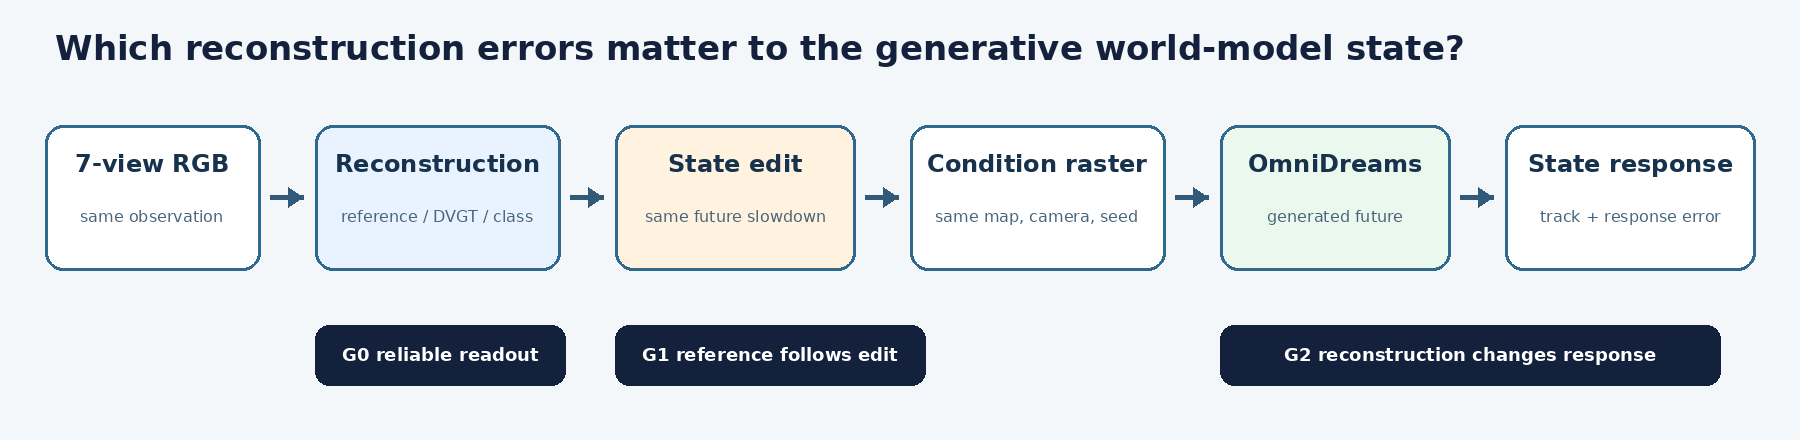
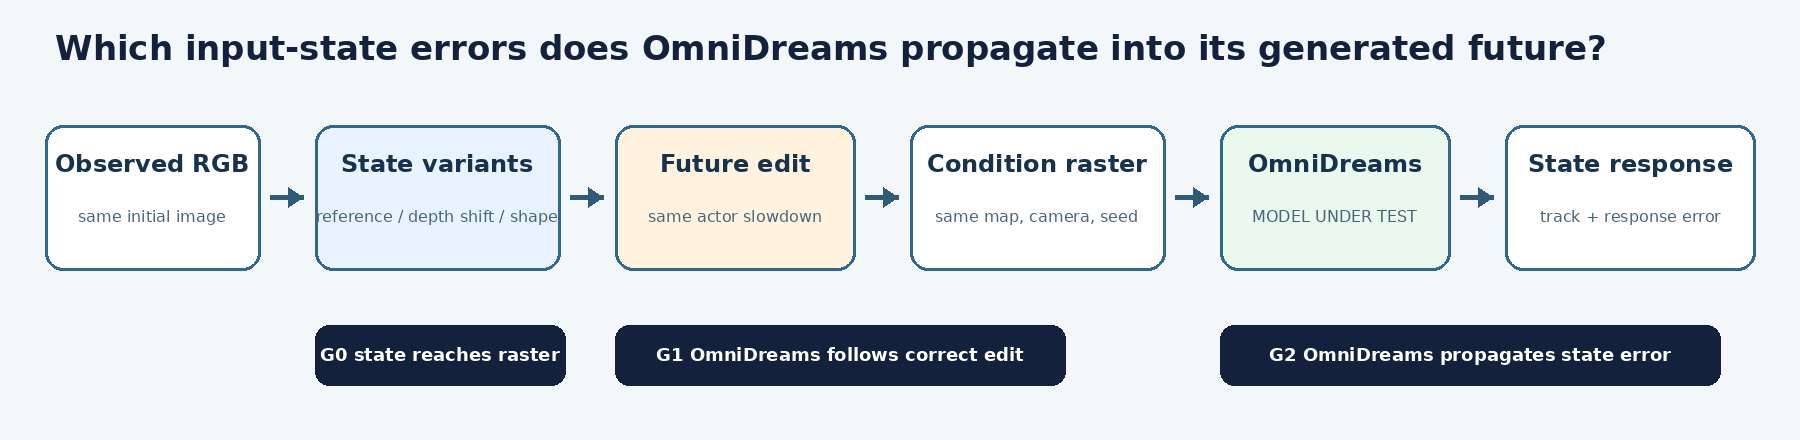
docs(v75): center OmniDreams state sensitivity

diff --git a/scripts/worldsim_v75/build_actor_slowdown_state_figures.py b/scripts/worldsim_v75/build_actor_slowdown_state_figures.py
@@ -19,6 +19,8 @@ SMALL_Q = ROOT/'WS-V75-ACTOR-SLOWDOWN-CONTROL-QUALIFY-01/20260921-r1'
 SMALL_BASE = ROOT/'WS-V75-ACTOR-REMOVAL-CONFIRM-GENERATION-01/20260921-r1'
 ARMS = ['reference', 'dvgt_metric', 'class_prior']
 COLORS = {'reference': '#69d2e7', 'dvgt_metric': '#ff6b6b', 'class_prior': '#ffd166'}
+LABELS = {'reference': 'reference state', 'dvgt_metric': 'depth-shift state',
+          'class_prior': 'depth+shape state'}
 
 
 def font(size, bold=False):
@@ -60,13 +62,13 @@ def initial_panel(array_path, g1_eval, title, subtitle):
 
 def architecture():
     W, H = 1800, 440; im = Image.new('RGB', (W, H), '#f4f7fa'); d = ImageDraw.Draw(im)
-    d.text((55, 28), 'Which reconstruction errors matter to the generative world-model state?', font=font(34, True), fill='#14213d')
+    d.text((55, 28), 'Which input-state errors does OmniDreams propagate into its generated future?', font=font(34, True), fill='#14213d')
     boxes = [
-        (45, 125, 260, 270, '7-view RGB', 'same observation'),
-        (315, 125, 560, 270, 'Reconstruction', 'reference / DVGT / class'),
-        (615, 125, 855, 270, 'State edit', 'same future slowdown'),
+        (45, 125, 260, 270, 'Observed RGB', 'same initial image'),
+        (315, 125, 560, 270, 'State variants', 'reference / depth shift / shape'),
+        (615, 125, 855, 270, 'Future edit', 'same actor slowdown'),
         (910, 125, 1165, 270, 'Condition raster', 'same map, camera, seed'),
-        (1220, 125, 1450, 270, 'OmniDreams', 'generated future'),
+        (1220, 125, 1450, 270, 'OmniDreams', 'MODEL UNDER TEST'),
         (1505, 125, 1755, 270, 'State response', 'track + response error'),
     ]
     for i, (x1, y1, x2, y2, title, sub) in enumerate(boxes):
@@ -77,8 +79,8 @@ def architecture():
         if i < len(boxes)-1:
             d.line((x2+10, 197, boxes[i+1][0]-12, 197), fill='#315a78', width=5)
             d.polygon([(boxes[i+1][0]-12, 197), (boxes[i+1][0]-27, 187), (boxes[i+1][0]-27, 207)], fill='#315a78')
-    gates = [('G0 reliable readout', 315, 250), ('G1 reference follows edit', 615, 310),
-             ('G2 reconstruction changes response', 1220, 500)]
+    gates = [('G0 state reaches raster', 315, 250), ('G1 OmniDreams follows correct edit', 615, 450),
+             ('G2 OmniDreams propagates state error', 1220, 500)]
     for text, x, width in gates:
         d.rounded_rectangle((x, 325, x+width, 385), 14, fill='#14213d')
         d.text((x+width//2, 355), text, font=font(18, True), fill='white', anchor='mm')
@@ -90,10 +92,10 @@ def response_plot(large_eval, small_eval):
     x = np.arange(2); width = .23
     for i, arm in enumerate(ARMS):
         vals = [large_eval['summaries'][arm]['median_pair_response_error_px'], small_eval['summaries'][arm]['median_pair_response_error_px']]
-        bars = ax.bar(x+(i-1)*width, vals, width, label=arm.replace('_', ' '), color=COLORS[arm], edgecolor='#263746')
+        bars = ax.bar(x+(i-1)*width, vals, width, label=LABELS[arm], color=COLORS[arm], edgecolor='#263746')
         ax.bar_label(bars, labels=[f'{v:.1f}' for v in vals], padding=3, fontsize=9)
     ax.axhline(10, color='#6c7a86', linestyle='--', linewidth=1.2, label='10 px material margin')
-    ax.set_xticks(x, ['Large depth error\nDVGT center error 13.27 m', 'Small-error control\nDVGT center error 0.38 m'])
+    ax.set_xticks(x, ['Large input-state error\ndepth shift 13.27 m', 'Small-error control\ndepth shift 0.38 m'])
     ax.set_ylabel('Median pair-response error (px)'); ax.set_ylim(0, 66)
     ax.grid(axis='y', alpha=.25); ax.spines[['top', 'right']].set_visible(False)
     ax.legend(frameon=False, ncol=2, loc='upper right'); fig.tight_layout()
@@ -102,13 +104,13 @@ def response_plot(large_eval, small_eval):
 
 def main_figure(large_eval, small_eval):
     W, H = 2020, 1120; im = Image.new('RGB', (W, H), '#f4f7fa'); d = ImageDraw.Draw(im)
-    d.text((45, 28), 'A reconstruction error matters when it changes the response to the same future edit', font=font(31, True), fill='#14213d')
-    d.text((45, 78), 'Yellow: detected actor  |  Red: unedited state  |  Cyan: slowed state  |  all pairs share RGB, map, camera and seed', font=font(18), fill='#49657a')
+    d.text((45, 28), 'OmniDreams propagates a large input-state error into its generated future', font=font(31, True), fill='#14213d')
+    d.text((45, 78), 'OmniDreams is the model under test  |  Yellow: output detection  |  Red/Cyan: unedited/slowed state  |  same RGB, map, camera and seed', font=font(18), fill='#49657a')
     configs = [
         ('(a) Large-error source', 'Depth: 41.9m -> 28.6m  |  center error 13.27m',
          LARGE_BASE/'reference-unedited/generated.npy', LARGE_G1/'evaluation.json', large_eval,
          {'reference': LARGE_G1/'reference-edited/generated.npy', 'dvgt_metric': LARGE/'dvgt_metric-edited/generated.npy', 'class_prior': LARGE/'class_prior-edited/generated.npy'}, 130),
-        ('(b) Small-error control', 'Depth: 20.3m  |  DVGT center error 0.38m',
+        ('(b) Small-error control', 'Depth: 20.3m  |  input center error 0.38m',
          SMALL_BASE/'reference-unedited/generated.npy', SMALL_G1/'evaluation.json', small_eval,
          {'reference': SMALL_G1/'reference-edited/generated.npy', 'dvgt_metric': SMALL/'dvgt_metric-edited/generated.npy', 'class_prior': SMALL/'class_prior-edited/generated.npy'}, 610),
     ]
@@ -119,7 +121,7 @@ def main_figure(large_eval, small_eval):
         for arm in ARMS:
             row = next(x for x in evaluation['rows'] if x['arm'] == arm and x['frame'] == 85)
             err = evaluation['summaries'][arm]['median_pair_response_error_px']
-            panels.append(boxed_frame(paths[arm], row, f'{arm.replace("_", " ")}  |  response error {err:.1f}px'))
+            panels.append(boxed_frame(paths[arm], row, f'OmniDreams · {LABELS[arm]}  |  {err:.1f}px'))
         for i, panel in enumerate(panels): im.paste(panel, (45+i*490, y+52))
         verdict = 'MATERIAL STATE EFFECT' if evaluation['material_reconstruction_state_effect'] else 'NO MATERIAL DEGRADATION'
         color = '#c94242' if evaluation['material_reconstruction_state_effect'] else '#208a5d'
@@ -127,7 +129,7 @@ def main_figure(large_eval, small_eval):
         d.text((1755, y+369), verdict, font=font(20, True), fill='white', anchor='mm')
         if y < 500: d.line((45, 585, 1995, 585), fill='#aebdca', width=2)
     d.rounded_rectangle((45, 1055, 1995, 1100), 12, fill='#14213d')
-    d.text((1020, 1077), '13.27 m depth-state error -> wrong future occupancy / actor scale -> +53.5 px DVGT response error; 0.38 m control does not degrade response',
+    d.text((1020, 1077), '13.27 m input depth shift -> wrong future occupancy / actor scale -> +53.5 px OmniDreams response error; 0.38 m control does not degrade response',
            font=font(18, True), fill='white', anchor='mm')
     im.save(EVIDENCE/'main-state-error-figure.png')
 
@@ -138,15 +140,17 @@ def main():
     assert large['material_reconstruction_state_effect'] and not small['material_reconstruction_state_effect']
     architecture(); response_plot(large, small); main_figure(large, small)
     summary = {
-        'status': 'complete', 'large_error_source': {'dvgt_center_error_m': 13.267042594399834,
+        'status': 'complete', 'model_under_test': 'OmniDreams single-view 2B',
+        'state_arm_labels': LABELS,
+        'large_error_source': {'depth_shift_m': 13.267042594399834,
             'reference_response_error_px': large['summaries']['reference']['median_pair_response_error_px'],
-            'dvgt_response_error_px': large['summaries']['dvgt_metric']['median_pair_response_error_px'],
-            'class_response_error_px': large['summaries']['class_prior']['median_pair_response_error_px'],
+            'depth_shift_response_error_px': large['summaries']['dvgt_metric']['median_pair_response_error_px'],
+            'depth_shape_response_error_px': large['summaries']['class_prior']['median_pair_response_error_px'],
             'material': True},
-        'small_error_control': {'dvgt_center_error_m': 0.3795239333796184,
+        'small_error_control': {'depth_shift_m': 0.3795239333796184,
             'reference_response_error_px': small['summaries']['reference']['median_pair_response_error_px'],
-            'dvgt_response_error_px': small['summaries']['dvgt_metric']['median_pair_response_error_px'],
-            'class_response_error_px': small['summaries']['class_prior']['median_pair_response_error_px'],
+            'depth_shift_response_error_px': small['summaries']['dvgt_metric']['median_pair_response_error_px'],
+            'depth_shape_response_error_px': small['summaries']['class_prior']['median_pair_response_error_px'],
             'material': False},
         'claim_boundary': 'two fixed sources; DVGT-derived range uses known rays and oracle size/yaw; fixed-camera counterfactual, not policy feedback or population prevalence',
         'human_verdict': None, 'failure_ledger_delta': 'none'}

diff --git a/docs/v75/ACTOR_TRAJECTORY_COUNTERFACTUAL.md b/docs/v75/ACTOR_TRAJECTORY_COUNTERFACTUAL.md
@@ -1,6 +1,6 @@
-# V7.5 未来轨迹反事实：哪些重建误差会改变生成世界状态
+# V7.5 未来轨迹反事实：OmniDreams 会传播哪些输入状态误差
 
-本轮把对象即时移除改成与初始图像完全一致的未来轨迹干预：目标演员在 `f=0..4` 保持原状态，从 `f=5` 起按 `tau=4+0.5*(frame-4)` 沿自身原轨迹减速。所有配对使用同一初始 RGB、文本、地图、非目标演员、相机、生成器和 seed42；只改变目标状态及同一个减速编辑。
+本轮被测模型是 **OmniDreams single-view 2B**。问题是：当输入给 OmniDreams 的结构化世界状态含有某类重建误差时，它会忽略、修正，还是把错误传播到生成未来？目标演员在 `f=0..4` 保持原状态，从 `f=5` 起按 `tau=4+0.5*(frame-4)` 沿自身原轨迹减速。所有 OmniDreams 配对使用同一初始 RGB、文本、地图、非目标演员、相机和 seed42；只改变输入状态及同一个未来编辑。
 
 ![实验组件](../autoresearch/worldsim_v75/actor_trajectory_counterfactual/architecture-components.png)
 
@@ -13,17 +13,17 @@
 
 这与对象移除结果不同：连续未来轨迹编辑不会与初始 RGB 中的对象存在性直接冲突，因此可以进入“重建状态是否影响响应”的问题。
 
-## 状态臂与信息边界
+## OmniDreams 的三个输入状态臂
 
 三个状态臂使用相同未来相对运动，再分别施加同一减速：
 
-| 状态臂 | 目标初态 | 明示额外信息 |
-|---|---|---|
-| reference | 原始 GT cuboid 与轨迹 | GT 状态，仅作上限诊断 |
-| DVGT metric | 官方 DVGT-1、T=1、7 相机的距离读出，只替换初始平移 | 已知相机射线、GT 尺寸和朝向 |
-| class prior | 同一 DVGT 距离，固定 `3.9×1.6×1.56m` 与 ego 朝向 | 已知相机射线；普通类别尺寸/朝向 |
+| 展示名称 | 内部记录名 | 输入 OmniDreams 的目标初态 | 明示额外信息 |
+|---|---|---|---|
+| reference state | `reference` | 原始 GT cuboid 与轨迹 | GT 状态，仅作上限诊断 |
+| depth-shift state | `dvgt_metric` | 只把初始平移换成一次真实重建派生的距离 | 误差样本来自官方 DVGT-1 T=1；已知相机射线、GT 尺寸和朝向 |
+| depth+shape state | `class_prior` | 同一距离，再换成固定 `3.9×1.6×1.56m` 与 ego 朝向 | 已知相机射线；普通类别尺寸/朝向 |
 
-因此结果不能称为“官方 DVGT 完整可编辑重建”。它回答的是：**DVGT 派生的目标距离错误在进入当前 cuboid 状态接口后，是否改变生成模型对同一未来编辑的响应。** LiDAR 只用于独立参考与全局尺度诊断，不进入纯视觉模型前向。
+三臂都由 **同一个 OmniDreams** 生成。DVGT 不是此处的被测生成模型，只用于给 depth-shift state 提供一个现实来源的误差幅度；内部目录名保留是为了可追溯。实验回答的是：**OmniDreams 对正确状态、大深度偏移状态和深度+形状状态的同一未来编辑如何响应。** LiDAR 只用于独立参考与全局尺度诊断，不进入 OmniDreams 前向。
 
 ## 事前冻结的响应指标
 
@@ -31,37 +31,37 @@
 
 `pair response error = ||(检测中心_减速 - 检测中心_未编辑) - (状态投影_减速 - 状态投影_未编辑)||`。
 
-同时报告响应增益、臂内轨迹命中和相对于 reference 状态投影的位置误差。相对 reference，任一重建臂的响应误差中位数增加至少 `10px`，或减速轨迹成功数损失至少 `2/5`，才记为 material state effect。没有根据输出修改帧、阈值、seed、事件时刻或减速系数。
+同时报告响应增益、臂内轨迹命中和相对于 reference state 投影的位置误差。相对 reference state，任一错误状态输入使 OmniDreams 的响应误差中位数增加至少 `10px`，或减速轨迹成功数损失至少 `2/5`，才记为 material state effect。没有根据输出修改帧、阈值、seed、事件时刻或减速系数。
 
 ## 两源结果
 
 ![主结果](../autoresearch/worldsim_v75/actor_trajectory_counterfactual/main-state-error-figure.png)
 
-| 来源 | 初始中心误差 | reference 响应误差 | DVGT 响应误差 | class-prior 响应误差 | 减速成功 reference / DVGT / class | 判定 |
+| 来源 | 输入状态中心误差 | OmniDreams + reference | OmniDreams + depth shift | OmniDreams + depth+shape | 减速成功 ref / depth / depth+shape | 判定 |
 |---|---:|---:|---:|---:|---:|---|
-| 大误差来源 `65387aee...` | DVGT `13.27m`；class `13.53m` | `2.11px` | `55.61px` | `32.08px` | `5/5 / 2/5 / 3/5` | 两个重建臂均为 material effect |
-| 小误差对照 `47286726...` | DVGT `0.380m`；class `0.447m` | `3.59px` | `1.65px` | `2.84px` | `4/5 / 5/5 / 5/5` | 无 material degradation |
+| 大误差来源 `65387aee...` | depth `13.27m`；depth+shape `13.53m` | `2.11px` | `55.61px` | `32.08px` | `5/5 / 2/5 / 3/5` | OmniDreams 传播两个错误状态 |
+| 小误差对照 `47286726...` | depth `0.380m`；depth+shape `0.447m` | `3.59px` | `1.65px` | `2.84px` | `4/5 / 5/5 / 5/5` | OmniDreams 响应无 material degradation |
 
 ![响应误差对照](../autoresearch/worldsim_v75/actor_trajectory_counterfactual/response-error-contrast.png)
 
 大误差来源的真实目标约在 `41.9m`，DVGT 派生状态约在 `28.6m`。普通背景 LiDAR 全局尺度为 `0.972`，尺度控制后的目标中心误差仍约 `14.01m`，因此不是一个普通全局尺度即可解释的差距。reference LiDAR 核心读出有 8 点、中心误差 `0.159m`、可见面保持率 `0.875`；DVGT 核心 266 像素、可见面保持率 `0.947`，参考与模型支持均通过冻结门槛。
 
-错误状态把同一演员放得过近，后段条件中的演员尺度、占据位置和出视野时刻随之改变。生成视频中车辆快速放大并逼近相机；DVGT 配对的响应增益由 reference 的 `0.959` 降到 `0.716`，响应误差相对 reference 增加 `53.51px`。class-prior 调整尺寸和朝向仍增加 `29.97px`，说明普通类别形状不能修复这一次主要的距离错误。
+错误输入状态把同一演员放得过近，后段条件中的演员尺度、占据位置和出视野时刻随之改变。OmniDreams 生成视频中车辆快速放大并逼近相机；depth-shift state 的响应增益由 reference state 的 `0.959` 降到 `0.716`，响应误差增加 `53.51px`。换成 depth+shape state 后仍增加 `29.97px`，说明 OmniDreams 没有用外观锚点自动修正这次主要的距离错误。
 
-小误差独立源使用此前冻结、未按重建误差挑选的来源。相同减速编辑和读出下，DVGT/class 的配对响应没有退化。这一保留的好案例排除了“任何状态差异都会被本指标判成坏”的解释，也说明当前结论针对足够大的、会改变未来可见性与占据的状态误差。
+小误差独立源使用此前冻结、未按重建误差挑选的来源。相同 OmniDreams、减速编辑和指标下，两个错误状态输入的配对响应没有退化。这一保留的好案例排除了“任何状态差异都会被本指标判成坏”的解释，也说明当前结论针对足够大的、会改变未来可见性与占据的状态误差。
 
 ## 可以支持的主张
 
-当前两源证据支持：在当前 cuboid→raster→OmniDreams 接口中，一个受可靠参考支持、普通全局尺度不能消除的约 `13m` 目标深度错误，会把同一未来减速编辑变成明显不同的生成状态响应；约 `0.4m` 的对照误差没有造成相同退化。
+当前两源证据支持：在 cuboid→raster 输入接口中，OmniDreams 会把一个受可靠参考支持、普通全局尺度不能消除的约 `13m` 目标深度错误传播为明显错误的未来响应；约 `0.4m` 的对照误差没有造成相同退化。这是 OmniDreams 的状态敏感性与误差传播结论，不是 DVGT 准确率排行榜。
 
 这比“几何误差越小越好”更具体：与反事实任务有关的是会改变未来占据、尺度、可见性或交互时序的状态误差。正确 reference 能稳定驱动编辑，是把责任定位到重建状态的必要前提。
 
 ## 尚不能支持的主张
 
 - 只有一个大误差正例和一个小误差对照，不能估计普遍发生率、严格阈值或单调曲线。
-- class-prior 与 DVGT 共用同一距离读出，不是第二个独立重建模型。
+- 两个错误状态臂共用同一距离样本，不是两个独立上游重建模型；本实验也不需要把它们宣称为两个模型。
 - 当前是固定记录相机的状态反事实，不是策略反馈闭环；尚未证明碰撞、规划或策略排序发生可信变化。
-- DVGT 读出使用已知射线和 oracle 尺寸/朝向，不能外推为官方端到端场景状态的准确率结论。
+- 误差样本使用已知射线和 oracle 尺寸/朝向读出，不能外推为 DVGT 官方端到端场景状态的准确率结论。
 - 第一个资格运行因 `iopath` 环境缺失在模型前向前结束；r2 保持完全相同科学输入并完成唯一一次官方 DVGT 前向。它是工程恢复，不计科学重复，也不新增 failure 卡。
 
 ## 下一步停止规则

diff --git a/docs/EXPERIMENTS.md b/docs/EXPERIMENTS.md
@@ -13,9 +13,9 @@
 | WS-V75-ACTOR-REMOVAL-G1-SCREEN-01 / 20260921-r1 | 下一批8个未曝光日志的中远距/小占比输入窗口；第5个首次通过后停止，8次CPU检测、0重建/生成 | [显著性候选](v75/ACTOR_REMOVAL_COUNTERFACTUAL.md)、[来源摘要](autoresearch/worldsim_v75/actor_removal_counterfactual/g1-salience-screen.json) |
 | WS-V75-ACTOR-REMOVAL-G1-QUALIFY-01；G1-GENERATION-01 / 20260921-r1 | reference raster通过；仅未编辑/移除2段234帧，A=10/10→7/10仍未通过G1，DVGT未准入 | [门控结果](v75/ACTOR_REMOVAL_COUNTERFACTUAL.md)、[评价](autoresearch/worldsim_v75/actor_removal_counterfactual/g1-reference-evaluation.json) |
 | WS-V75-ACTOR-REMOVAL-G1-FAR-SCREEN-01 / 20260921-r1 | 下一批8个未曝光日志的远距小投影窗口；0个合格A→B对、0 detector/重建/生成，门槛未放宽 | [对象移除收口](v75/ACTOR_REMOVAL_COUNTERFACTUAL.md)、[空窗口](autoresearch/worldsim_v75/actor_removal_counterfactual/g1-far-screen.json) |
-| WS-V75-ACTOR-SLOWDOWN-G1-QUALIFY-01；G1-GENERATION-01 / 20260921-r1 | 中距来源未来0.5×减速；前5帧输入严格一致，reference未编辑/减速各1段，后段5/5服从编辑，G1通过 | [轨迹报告](v75/ACTOR_TRAJECTORY_COUNTERFACTUAL.md)、[主图](autoresearch/worldsim_v75/actor_trajectory_counterfactual/main-state-error-figure.png) |
-| WS-V75-ACTOR-SLOWDOWN-STATE-QUALIFY-01 / 20260921-r1,r2；STATE-GENERATION-01 / r1 | r1在DVGT前向前缺iopath结束；r2同输入完成1次官方DVGT及三臂资格；新增DVGT/class未编辑与减速4段468帧，13.27m误差导致55.61/32.08px响应误差 | [完整结果](v75/ACTOR_TRAJECTORY_COUNTERFACTUAL.md)、[轻量摘要](autoresearch/worldsim_v75/actor_trajectory_counterfactual/summary.json) |
-| WS-V75-ACTOR-SLOWDOWN-CONTROL-QUALIFY-01；CONTROL-G1-01；CONTROL-STATE-01 / 20260921-r1 | 复用独立小误差源与既有未编辑序列；新增reference/DVGT/class减速3段351帧，DVGT误差0.380m且响应未退化 | [正反对照](v75/ACTOR_TRAJECTORY_COUNTERFACTUAL.md)、[响应图](autoresearch/worldsim_v75/actor_trajectory_counterfactual/response-error-contrast.png) |
+| WS-V75-ACTOR-SLOWDOWN-G1-QUALIFY-01；G1-GENERATION-01 / 20260921-r1 | OmniDreams中距来源未来0.5×减速；前5帧输入严格一致，reference-state未编辑/减速各1段，后段5/5服从编辑，G1通过 | [轨迹报告](v75/ACTOR_TRAJECTORY_COUNTERFACTUAL.md)、[主图](autoresearch/worldsim_v75/actor_trajectory_counterfactual/main-state-error-figure.png) |
+| WS-V75-ACTOR-SLOWDOWN-STATE-QUALIFY-01 / 20260921-r1,r2；STATE-GENERATION-01 / r1 | r1在状态误差样本读出前缺iopath结束；r2同输入完成1次官方DVGT读出及三状态资格；同一个OmniDreams新增depth-shift/depth+shape未编辑与减速4段468帧，13.27m输入误差对应55.61/32.08px生成响应误差 | [完整结果](v75/ACTOR_TRAJECTORY_COUNTERFACTUAL.md)、[轻量摘要](autoresearch/worldsim_v75/actor_trajectory_counterfactual/summary.json) |
+| WS-V75-ACTOR-SLOWDOWN-CONTROL-QUALIFY-01；CONTROL-G1-01；CONTROL-STATE-01 / 20260921-r1 | 复用独立小误差源与既有未编辑序列；同一个OmniDreams新增reference/depth-shift/depth+shape减速3段351帧，0.380m输入误差下生成响应未退化 | [正反对照](v75/ACTOR_TRAJECTORY_COUNTERFACTUAL.md)、[响应图](autoresearch/worldsim_v75/actor_trajectory_counterfactual/response-error-contrast.png) |
 | WS-V75-ACTOR-SLOWDOWN-CONFIRM-SCREEN-01 / 20260921-r1,r2；CONFIRM-QUALIFY-01 / r1 | r1为投影/场景字段工程错误、0检测；r2同一8日志在第6个选首个目标、1次CPU检测；reference raster后段变化139/64/0/0/0，G0失败，0重建/生成且不替换来源 | [停止结论](v75/ACTOR_TRAJECTORY_COUNTERFACTUAL.md)、[来源结果](autoresearch/worldsim_v75/actor_trajectory_counterfactual/confirmation-screen.json) |
 | WS-V75-VELOCITY-PRIOR-CONTROL-01 / 20260920-r1 | 两日志20流CPU回放、世界速度零均值普通控制；主项退化、未准入生成 | [收口与全部证据](autoresearch/worldsim_v75/velocity_prior_control/README.md) |
 | WS-V75-QUALIFY-01 / 20260920-r1 | 官方接口契约与资源来源核对 | [问题协议](v75/PROBLEM.md)、[V75-F01](research_failures/entries/V75-F01.md) |

diff --git a/docs/RESEARCH_STATUS.md b/docs/RESEARCH_STATUS.md
@@ -19,7 +19,7 @@
 - [对象移除反事实](v75/ACTOR_REMOVAL_COUNTERFACTUAL.md)完成。曝光开发源中 reference/DVGT removed 为 A=`1/10`、B=`9/10`/`8/10`，类别先验为 A=`4/10`、B=`4/10`，形成状态可编辑性候选；冻结的独立源三状态均为 A=`10/10`、B=`10/10`，reference gate 失败，候选未复现。把 A 从 f=0 起移出全部状态条件后仍为 A=`10/10`，支持 initial-image anchor 压过结构化编辑。该源禁止重建排名，也未启动闭环。
 - 新的中距 G1 来源窗口筛到 A=`5859px²/41.88m`，只跑 reference 两段：removed A=`7/10`、B=`10/10`，仍未通过 A≤2 的门槛，故0次DVGT。三个固定来源的 A 残留为`1/10→7/10→10/10`，与初始投影面积增大、距离减小同向；当前仅是显著性 envelope 候选，面积/距离/场景/运动混杂，不声称因果或单调。
 - 下一批8日志的远距小投影窗口为0个合格A→B对象对，0 detector/重建/生成；未放宽面积、距离、时间或拓扑。这是数据覆盖边界，不是模型通过。对象即时移除作为独立重建比较入口到此关闭。
-- [未来轨迹反事实](v75/ACTOR_TRAJECTORY_COUNTERFACTUAL.md)已完成。两个来源的 reference 减速门控都通过。大误差来源中，官方DVGT-1距离经已知射线和oracle尺寸/朝向读出后，中心误差为`13.27m`；reference/DVGT/class-prior响应误差为`2.11/55.61/32.08px`，编辑成功为`5/5、2/5、3/5`，两个重建臂均触发冻结的material rule。小误差独立对照中DVGT中心误差为`0.380m`，三臂响应误差为`3.59/1.65/2.84px`，未退化。当前支持“会改变未来占据与可见性的大状态误差会影响生成响应”，不支持任意误差有害、普遍发生率或严格阈值。
+- [未来轨迹反事实](v75/ACTOR_TRAJECTORY_COUNTERFACTUAL.md)已完成，被测模型是OmniDreams single-view 2B。两个来源的reference减速门控都通过。大误差来源给OmniDreams输入reference/depth-shift/depth+shape三种状态，响应误差为`2.11/55.61/32.08px`，编辑成功为`5/5、2/5、3/5`；小误差独立对照为`3.59/1.65/2.84px`，未退化。DVGT只提供一次现实来源的深度误差样本，不是此实验的生成模型主语。当前支持“OmniDreams会把足以改变未来占据与可见性的大状态误差传播到生成响应”，不支持任意误差有害、普遍发生率或严格阈值。
 - 新的固定8日志确认窗口在第6个日志找到首个输入合格目标（`49.55m/3047px²`），但reference轨迹编辑在后段raster中只有`139/64/0/0/0`个变化像素，G0失败。按协议不替换第7/8个来源，0次DVGT、0次生成。现有大误差结果保留为机制badcase，不升级prevalence或策略危害主张。
 
 这些实验支持接口能力与有限误差边界，**不证明重建普遍成熟，也不证明反事实正确**。DVGT距离读出使用GT尺寸/朝向、LiDAR诊断有额外信息、交通非反应式，原有信息边界继续有效。当前只有单一IDM，没有成熟驾驶多策略排名证据。

diff --git a/docs/v75/COUNTERFACTUAL_EVALUATION.md b/docs/v75/COUNTERFACTUAL_EVALUATION.md
@@ -60,7 +60,7 @@
 
 执行结果见[未来轨迹反事实报告](ACTOR_TRAJECTORY_COUNTERFACTUAL.md)。目标在 `f=0..4` 保持不变，从 `f=5` 起沿自身轨迹按 `0.5×` 时间推进；配对的初始 RGB、状态前缀、地图、非目标演员、相机和 seed42 相同。
 
-两个固定来源的 reference 门控都通过。大误差来源的 DVGT 派生中心误差为 `13.27m`，reference/DVGT/class-prior 配对响应误差为 `2.11/55.61/32.08px`，减速成功为 `5/5、2/5、3/5`；小误差独立对照的 DVGT 中心误差为 `0.380m`，响应误差为 `3.59/1.65/2.84px`，没有 material degradation。事前判据为相对 reference 增加至少 `10px` 响应误差或损失至少 `2/5` 编辑成功，未按结果修改。
+两个固定来源的 reference 门控都通过，被测生成模型始终是 OmniDreams。大误差来源给 OmniDreams 输入 reference/depth-shift/depth+shape 三种状态，配对响应误差为 `2.11/55.61/32.08px`，减速成功为 `5/5、2/5、3/5`；小误差独立对照为 `3.59/1.65/2.84px`，没有 material degradation。事前判据为相对 reference state 增加至少 `10px` 响应误差或损失至少 `2/5` 编辑成功，未按结果修改。DVGT 只提供 depth-shift 的现实误差样本，不是此实验的生成模型主语。
 
 这组结果提供一个机制正例和一个保留的好案例：足以改变未来占据与可见性的大深度状态错误会传到生成响应，小误差并不自动造成退化。它仍是固定相机状态实验，不是策略反馈闭环，也不能由两源估计 prevalence 或严格误差阈值。
 
@@ -74,6 +74,6 @@
 
 ## 主图设计
 
-当前主图使用两行对照：大深度误差正例与小误差好案例；每行依次展示原始观测、reference/DVGT/class-prior 的同一减速生成，并直接标出配对响应误差。另配输入—重建—编辑—条件—生成—响应的组件图。未执行闭环时不画虚构事故或策略结果。
+当前主图使用两行对照：大深度误差正例与小误差好案例；每行依次展示原始观测，以及 OmniDreams 在 reference state、depth-shift state、depth+shape state 下的同一减速生成，并直接标出配对响应误差。另配状态变体—编辑—条件—OmniDreams—响应的组件图。未执行闭环时不画虚构事故或策略结果。
 
 人工 verdict：null；`failure_ledger_delta:none`。
